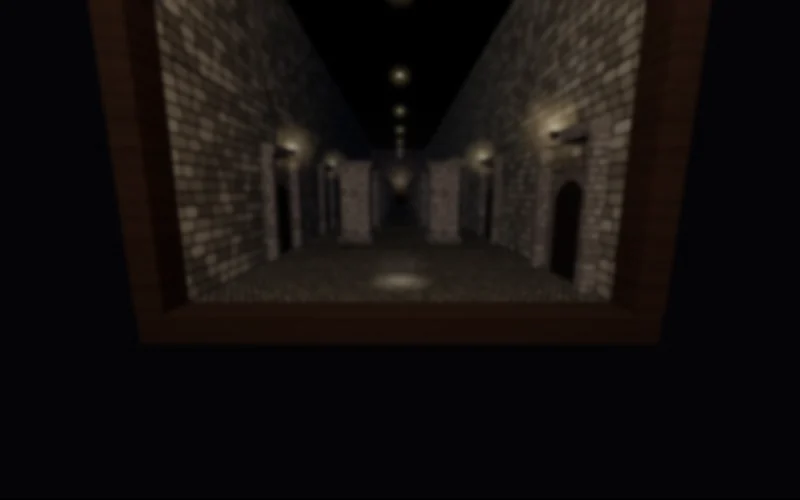
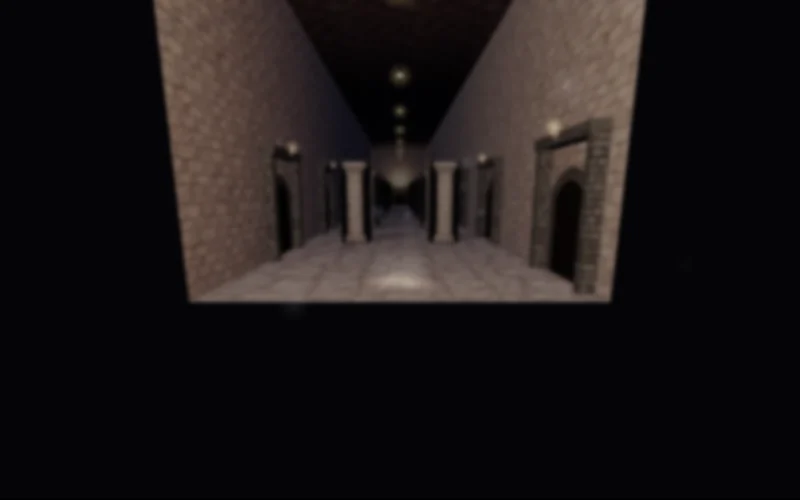
森とダンジョンの元絵・本がひらく流れ・入る演出は真後ろから
- 森の元絵 v01（木・岩・しげみ・古い石の門・土と小道・ダンジョンの壁床天井・灯り・柱）。門は口をくりぬき、奥に中の写し
- 本がひらく：見返しの紙は表紙を越えずなめらかに寝て、寝てから板が起き上がる。閉じた本のまわりに寝た板を出さない
- ページめくり：紙が寝る側に前のページを残す
- 入る演出はカメラ真後ろ、仲間は半歩よける
- オーブを増やし、カメラのそばにも。中の手前の額縁と本棚を外した

diff --git a/src/render/three-stage.js b/src/render/three-stage.js
@@ -98,6 +98,8 @@ let NOOKIN = 'blur';
 const WALK_IN = 3;
 /** ぼかして出るとき：中では手前へ歩くマス数、外では戸口の奥から出てくるマス数（2026-11-23 作者「出るところも演出を」） */
 const WALK_OUT = 2, EMERGE = 1.6;
+/** ぼかして入るとき、仲間が横へよける幅（マス） */
+const ASIDE = 0.8;
 /** 入る瞬間に広げる画角（度） */
 const FOV_BURST = 120;
 /** 切りかわりの前後に重ねる、中の色の濃さ（0〜1） */
@@ -424,6 +426,19 @@ function townYardFloor(g, map, T, W, H, paved) {
 }
 function soilFloor(g, map, T, W, H) { // 森の土：茶色の土に濃淡のしみ、小石、落ち葉。歩ける所は踏み固めた明るい土、歩けない所（木・岩の下）は草とこけ
   const R = rnd(83);
+  const sp = townPattern(g, 'soil', T, 4); // 森の元絵 v01（2026-11-23）：土の絵を全体に、地図の stage.paths（道の折れ線）にそって小道の絵を、ふちをぼかして重ねる
+  if (sp) {
+    g.fillStyle = sp; g.fillRect(0, 0, W, H);
+    const pp = townPattern(g, 'path', T, 4);
+    if (pp && map.stage?.paths?.length) {
+      const road = canvas(W, H, (d) => { d.fillStyle = pp; d.fillRect(0, 0, W, H); });
+      const mask = canvas(W, H, (d) => { d.strokeStyle = '#fff'; d.lineCap = d.lineJoin = 'round'; for (const pl of map.stage.paths) { d.lineWidth = (pl.w ?? 2.6) * T; d.beginPath(); pl.pts.forEach(([x, y], i) => (i ? d.lineTo(x * T, y * T) : d.moveTo(x * T, y * T))); d.stroke(); } });
+      const soft = canvas(W, H, (d) => { d.filter = `blur(${Math.round(T * 0.35)}px)`; d.drawImage(mask, 0, 0); });
+      const rg = road.getContext('2d'); rg.globalCompositeOperation = 'destination-in'; rg.drawImage(soft, 0, 0);
+      g.drawImage(road, 0, 0);
+    }
+    return;
+  }
   g.fillStyle = '#7a5e40'; g.fillRect(0, 0, W, H);
   for (let k = 0; k < (W * H) / 260; k++) { const r = 4 + R() * 14; g.fillStyle = R() < 0.5 ? 'rgba(60,42,26,.16)' : 'rgba(150,118,80,.14)'; g.beginPath(); g.ellipse(R() * W, R() * H, r, r * (0.5 + R() * 0.5), R() * 3, 0, 7); g.fill(); } // 濃淡のしみ
   for (let y = 0; y < map.height; y++) for (let x = 0; x < map.width; x++) {
@@ -499,7 +514,7 @@ function windowGlow(c, file, seed) {
  * 家（house-*・inn-*）は横いっぱいにして、高さは絵の形から（家ごとに屋根の高さが変わる）。
  * 吊るすもの（sign-*・awning-*・herbs）は板の上のほうに、それ以外は地面に立てて、形を変えずに入れる
  */
-const SHOW_H = { tree: 6, 'tree-small': 2.8, stall: 3.2, 'flower-stall': 3.2 };
+const SHOW_H = { tree: 6, 'tree-small': 2.8, stall: 3.2, 'flower-stall': 3.2, pine: 6, 'dungeon-gate': 5.2 }; // pine・dungeon-gate：森の元絵 v01（2026-11-23。木は約6マス、門の口がキャラより高い）
 function townBoardCanvas(name, b, it) {
   const cfg = TOWN_CFG, imgs = TOWN_IMG; if (!cfg || !imgs) return null;
   let file = it.art || cfg.boards?.[name]; // it.art：地図で家の絵を決めているとき
@@ -901,15 +916,17 @@ export function createThreeStage(canvasEl, assets) {
   const hexTex = texOf(hexCanvas()); const orbGroup = new THREE.Group(); scene.add(orbGroup);
   // 光の玉は場所ごとに変える（2026-11-22 作者「オーブは場所によって変えるようにしたい」）：マップの stage.orbs（数・明るさ・色・大きさ）が
   // stage-style.json の orbs を上書きする。玉は ORB_MAX 個まで先に作っておき、マップを読むたびに数と色を合わせる
-  const ORB_MAX = 40;
+  const ORB_MAX = 80, ORB_MORE = 1.3, NEAR_ORBS = 8; // 2026-11-23 作者「オーブの量を増やして」「カメラ付近にも出るように」のあと「オーブ多すぎるかな」：マップの数の1.3倍、カメラの前に8個
   const orbSprites = [];
-  for (let i = 0; i < ORB_MAX; i++) { const s = new THREE.Sprite(new THREE.SpriteMaterial({ map: hexTex, transparent: true, depthWrite: false, blending: THREE.AdditiveBlending, rotation: i * 1.7 })); s.visible = false; orbGroup.add(s); orbSprites.push(s); }
+  for (let i = 0; i < ORB_MAX; i++) { const s = new THREE.Sprite(new THREE.SpriteMaterial({ map: hexTex, transparent: true, depthWrite: false, blending: THREE.AdditiveBlending, rotation: i * 1.7, toneMapped: false, fog: false }) /* 明るい部屋でも消えないように、明るさをおさえる処理（トーンマッピング）ともやを受けない */); s.visible = false; orbGroup.add(s); orbSprites.push(s); }
   let orbCfg = { count: 0, alpha: 0.7, size: 1 };
+  const nearOrbs = []; for (let i = 0; i < NEAR_ORBS; i++) { const s = new THREE.Sprite(new THREE.SpriteMaterial({ map: hexTex, transparent: true, depthWrite: false, blending: THREE.AdditiveBlending, rotation: i * 2.3, toneMapped: false, fog: false })); s.visible = false; orbGroup.add(s); nearOrbs.push(s); }
   const applyOrbs = (m) => {
     const o = { ...(style.orbs || {}), ...(m.stage?.orbs || {}) };
-    orbCfg = { count: Math.max(0, Math.min(ORB_MAX, o.count ?? 0)), alpha: o.alpha ?? 0.7, size: o.size ?? 1 };
+    orbCfg = { count: Math.max(0, Math.min(ORB_MAX, Math.round((o.count ?? 0) * ORB_MORE))), alpha: o.alpha ?? 0.7, size: o.size ?? 1 };
     const c = new THREE.Color(...(o.color || [1, 1, 1]));
     orbSprites.forEach((s, i) => { s.material.color.copy(c); if (i >= orbCfg.count) s.visible = false; });
+    nearOrbs.forEach((s) => { s.material.color.copy(c); s.visible = false; });
   };
 
   // キャラ（なびくドット絵）。読み終わるまで load が待つ
@@ -923,7 +940,7 @@ export function createThreeStage(canvasEl, assets) {
   // マップの手ざわり（stage.textures）：美術・演出室の元絵をそのまま張る（2026-11-22 作者「試しにドット化しないでそのまま張ったらどうなる？」）。?innart=0 で前のコードの絵
   const artCache = {}; let ART2 = null;
   // 内装の手ざわりと切り抜き（v01：床〜扉、v02：木・腰板・麻布・敷物と、切り抜きの灯り・瓶・ジョッキ・樽。2026-11-23 作者「銀鹿亭のテクスチャできたよ」）
-  const INN_KEYS = ['windowArch', 'flowerBox', 'pottery', 'bread', 'guestBook', 'keyRack', 'logBasket', 'floor', 'wall', 'ceiling', 'brick', 'window', 'tabletop', 'counter', 'blanket', 'door', 'wood', 'wainscot', 'linen', 'rug', 'barrels', 'bottles', 'mugs', 'candle', 'lampHanging', 'lampWall', 'flame', 'logs'];
+  const INN_KEYS = ['pillar', 'windowArch', 'flowerBox', 'pottery', 'bread', 'guestBook', 'keyRack', 'logBasket', 'floor', 'wall', 'ceiling', 'brick', 'window', 'tabletop', 'counter', 'blanket', 'door', 'wood', 'wainscot', 'linen', 'rug', 'barrels', 'bottles', 'mugs', 'candle', 'lampHanging', 'lampWall', 'flame', 'logs'];
   // 元絵1枚が覆うマス数（横, 縦）。ドット絵にするときの細かさを決める
   const ART_TILES = { floor: [4, 4], wall: [4, 4], ceiling: [4, 4], brick: [1.5, 1.9], window: [1.3, 1.8], tabletop: [3, 1.8], counter: [7, 1.1], blanket: [2, 1.2], door: [1, 2.1] };
   // 町の絵（2026-11-22 作者「テクスチャができました、ノルンの」）：マップの stage.townArt の絵を読んでおく（地面の模様と板の絵に使う）
@@ -957,7 +974,7 @@ export function createThreeStage(canvasEl, assets) {
     TOWN = out; TOWN_CFG = t; TOWN_IMG = out;
   }
   async function loadArt(m) {
-    TOWN_CFG = null; TOWN_IMG = null; ART2 = null; const t = m.stage?.textures; if (!t || new URLSearchParams(location.search).get('innart') === '0') return;
+    TOWN_CFG = null; TOWN_IMG = null; ART2 = null; CUT_OVR = m.stage?.textures?.cuts || {}; const t = m.stage?.textures; if (!t || new URLSearchParams(location.search).get('innart') === '0') return;
     const out = {};
     for (const k of INN_KEYS) {
       if (!t[k]) continue; const url = (t.base || '') + t[k];
@@ -995,12 +1012,13 @@ export function createThreeStage(canvasEl, assets) {
     // 美術・演出室 v03（2026-11-23 作者「アーチ窓小物組める？」）：絵のある範囲 px と、元の絵の大きさ
     windowArch: [[27, 52, 741, 988], 768, 1024], flowerBox: [[98, 11, 926, 309], 1024, 320], bread: [[18, 88, 494, 371], 512, 384], guestBook: [[18, 121, 494, 371], 512, 384],
     keyRack: [[18, 18, 494, 443], 512, 512], logBasket: [[60, 18, 452, 494], 512, 512] };
+  /** @type {Record<string, any>} マップの stage.textures.cuts（切り抜きの範囲の上書き） */ let CUT_OVR = {};
   const POT_CUPS = [[31, 106, 224, 246], [543, 106, 735, 246]]; // v03 pottery の生成りの杯2つ（皿2枚は正面から見た丸い絵なので、卓には寝かせられず使わない）
   const MUGS = [[37, 113, 158, 243], [242, 114, 361, 243], [446, 113, 568, 243]]; // mugs.png の木のジョッキ2つ・錫のジョッキ1つ（あとの2つは木の皿）
   /** 元絵の一部（b＝[x0,y0,x1,y1] px）だけを使う手ざわり。flip：左右を返す（壁の右側の灯りなど、物の向きだけ。キャラには使わない） */
   const cutT = (k, b, W, H, flip = false) => { const base = ART2?.[k]; if (!base) return null; const t = base.clone(); t.needsUpdate = true; t.wrapS = t.wrapT = THREE.ClampToEdgeWrapping; const rx = (b[2] - b[0] + 1) / W, ry = (b[3] - b[1] + 1) / H; t.repeat.set(flip ? -rx : rx, ry); t.offset.set(flip ? (b[0] / W + rx) : b[0] / W, 1 - (b[3] + 1) / H); t.anisotropy = 8; return t; };
   /** 切り抜きの紙の板（高さ h、幅は絵の縦横比）。まんなかが原点。無ければ null（前のコードの形にもどす） */
-  const cutPlane = (k, h, { b = CUT[k]?.[0], W = CUT[k]?.[1], H = CUT[k]?.[2], flip = false, emissive = 0 } = {}) => {
+  const cutPlane = (k, h, { b = (CUT_OVR[k] ?? CUT[k])?.[0], W = (CUT_OVR[k] ?? CUT[k])?.[1], H = (CUT_OVR[k] ?? CUT[k])?.[2], flip = false, emissive = 0 } = {}) => {
     if (!b) return null; const t = cutT(k, b, W, H, flip); if (!t) return null;
     const w = h * (b[2] - b[0] + 1) / (b[3] - b[1] + 1);
     const mat = new THREE.MeshStandardMaterial({ map: t, transparent: true, alphaTest: 0.35, roughness: 0.8, side: THREE.DoubleSide, ...(emissive ? { emissive: 0xffffff, emissiveMap: t, emissiveIntensity: emissive } : {}) });
@@ -1051,6 +1069,13 @@ export function createThreeStage(canvasEl, assets) {
   // 前のページ（去る最後）と新しいページ（着いた最初）。撮れていないときは、地面だけのページの絵
   const snapRT = [0, 1].map(() => { const t = new THREE.WebGLRenderTarget(16, 16); t.texture.colorSpace = THREE.SRGBColorSpace; return t; });
   let snapPrevOk = false, snapCurOk = false;
+  // めくるあいだ、紙が寝る側（右からめくれば左）には、前のページの写しを残しておく（紙がかぶさるまで。2026-11-23 作者「右のページは前にいたところを残すことができないかな」）
+  const oldHalf = new THREE.Mesh(new THREE.PlaneGeometry(1, 1), new THREE.MeshBasicMaterial({ map: snapRT[0].texture, toneMapped: false })); oldHalf.rotation.x = -Math.PI / 2; oldHalf.visible = false; scene.add(oldHalf);
+  let oldHalfSide = 0;
+  const setOldHalf = (/** @type {number} */ side, /** @type {number} */ BW, /** @type {number} */ BH) => { // side -1＝左半分 / +1＝右半分
+    if (oldHalfSide !== side) { oldHalfSide = side; const uv = oldHalf.geometry.attributes.uv; const u0 = side < 0 ? 0 : 0.5; for (let i = 0; i < uv.count; i++) uv.setX(i, u0 + (i % 2) * 0.5); uv.needsUpdate = true; }
+    oldHalf.scale.set(BW / 2, BH, 1);
+  };
   const snapCam = new THREE.OrthographicCamera(-1, 1, 1, -1, 0.1, 300);
   const snapPage = (/** @type {any} */ rt) => {
     const { BW, BH } = bookSize(map), w = 2048, h = Math.round(2048 * BH / BW);
@@ -1058,7 +1083,7 @@ export function createThreeStage(canvasEl, assets) {
     Object.assign(snapCam, { left: -BW / 2, right: BW / 2, top: BH / 2, bottom: -BH / 2 }); snapCam.updateProjectionMatrix();
     snapCam.position.set(map.width / 2, 120, map.height / 2); snapCam.up.set(0, 0, -1); snapCam.lookAt(map.width / 2, 0, map.height / 2);
     snapCam.layers.enable(1);
-    const hid = [turnMesh, ...riffleSheets.map((f) => f.group), ...flyleaves.map((f) => f.group), ...orbSprites, ...trailDots, doorGlow].filter((o) => o.visible);
+    const hid = [turnMesh, ...riffleSheets.map((f) => f.group), ...flyleaves.map((f) => f.group), ...orbSprites, ...trailDots, doorGlow, oldHalf].filter((o) => o.visible); // 前のページの写し（oldHalf）を写しこまない
     hid.forEach((o) => { o.visible = false; });
     const fog = scene.fog; scene.fog = null;
     renderer.setRenderTarget(rt); renderer.clear(); renderer.render(scene, snapCam); renderer.setRenderTarget(null);
@@ -1286,9 +1311,7 @@ export function createThreeStage(canvasEl, assets) {
     }
     // 手前の木の額縁（本棚の箱のふち）
     const woodT = artT('wood', 1, 1) ?? (PIXROOM ? pixTex(woodCanvas(), 1) : texOf(woodCanvas())), frameM = mat(woodT, WOOD_ROUGH); frameM.color.set(WOOD_TINT);
-    for (const [w, h, x, y] of [[W + F * 2, F, W / 2, HT + F / 2 + 0.03], [W + F * 2, F, W / 2, -F / 2 - 0.03], [F, HT, -F / 2 - 0.03, HT / 2], [F, HT, W + F / 2 + 0.03, HT / 2]]) {
-      const b = new THREE.Mesh(roundBox(w, h, 0.5 * S), frameM); b.position.set(x, y, H + 0.1 * S); root.add(b); // 額縁は床・壁・天井から少し外へずらす（内側の面が床や壁と同じ所で重なり、つなぎ目がちかちかした。2026-11-23 作者「このつなぎめがちかちかする」「この辺もちかちかする」）
-    }
+    // 手前の木の額縁は外した（2026-11-23 作者「ブックヌックの手前の木の棚みたいなやつもなくしていいよ」）
     // 手前の本棚（額縁のまわりの奥の板・左右の本・上下の棚板）は外した（2026-11-23 作者「ブックヌックスタイルやつの手前の本棚消していいよ」：カメラを近づけたので、画面の左右に大きく出ていた）
     // 本棚の前を照らす部屋のやわらかい灯り（入る・出るとき、遠くから本棚が見える）と、箱の中のうすい月明かり
     const room = new THREE.SpotLight(0xffd9a8, 60 * S * S, 40 * S, 0.55, 0.7, 1.6); room.position.set(W / 2 - 2 * S, 9 * S, H + 10 * S); room.target.position.set(W / 2, HT / 2, H); root.add(room, room.target);
@@ -1309,6 +1332,8 @@ export function createThreeStage(canvasEl, assets) {
     const g = new THREE.Group();
     const box = (mats, bw, bh, bd, y, z = -d / 2) => { const m = new THREE.Mesh(roundBox(bw, bh, bd), mats); m.position.set(0, y, z); m.castShadow = true; m.receiveShadow = true; g.add(m); return m; };
     if (name === 'stone-pillar') {
+      const pa = artT('pillar'); // 森の元絵 v01 dungeon_pillar（上下の飾りの石まで描いた柱）。四方に絵を張る
+      if (pa) { pa.wrapS = pa.wrapT = THREE.ClampToEdgeWrapping; const pm = M(pa), top = M(artT('wall', 0.25, 0.25) ?? pa); box([pm, pm, top, top, pm, pm], w * 0.8, h, d * 0.8, h / 2); return g; }
       const side = (s) => M(tile(brickCanvas(60 + s, [118, 120, 126]), s === 0 ? d / 2.2 : w / 2.2, h / 2.2)), cap = M(tile(brickCanvas(70, [96, 98, 104]), 1, 1));
       box([side(0), side(0), cap, cap, side(1), side(1)], w * 0.82, h, d * 0.82, h / 2);
       for (const y of [0.18, h - 0.18]) box(cap, w, 0.36, d, y); // 柱の下と上の、張り出した飾りの石
@@ -1853,9 +1878,11 @@ export function createThreeStage(canvasEl, assets) {
       const kOf = (/** @type {number} */ z, /** @type {boolean} */ isActor) => (riseT === null ? 1 : riseK(riseT, delayOf(z, isActor))) * fold * (wave ? 1 - ez(cl((ep - wave[0] - wave[1] * zfOf(z, isActor)) / wave[2])) : 1);
       // 倒れた板は消さずに、ページに描かれた絵のように平らに残す（外の本のページの上だけ）。板どうし・ページと重ならないよう、手前の板ほど少し上に。
       // 奥へ倒れてページからはみ出す長い板（家）は、倒れるにつれて縮めてページの中に収める
-      const flatLay = (/** @type {any} */ hinge, /** @type {number} */ k, /** @type {number} */ z, /** @type {number} */ h, /** @type {boolean} */ isActor) => {
+      const flatLay = (/** @type {any} */ hinge, /** @type {number} */ k, /** @type {number} */ z, /** @type {number} */ h, /** @type {boolean} */ isActor, x0 = 0) => {
         const f = 1 - Math.min(1, Math.max(0, k)); if (!pages) { hinge.visible = k > 0.01; return; }
-        hinge.visible = true; hinge.position.y += f * (0.03 + 0.05 * zfOf(z, isActor));
+        // 本がひらききるまでは、左半分（表紙といっしょに回るページの所）にかかる板は見せない。閉じた本のまわりに、寝た板や背景が見えていた（2026-11-23 作者「一番最初の本のところ、明かりや屋台が見えてしまっている」）
+        // 本がひらく演出のあいだは、寝た板は見せず、起き上がりはじめたら見せる（2026-11-23 作者「開いてからオブジェクトがあったほうがいいかな」）。ページをめくるときは寝たまま残す
+        hinge.visible = !(intro && f > 0.99); hinge.position.y += f * (0.03 + 0.05 * zfOf(z, isActor));
         const room = Math.max(0.5, z - (H / 2 - bookSize(map).BH / 2) - 0.3), fit = h > room ? room / h : 1; hinge.scale.y = 1 + (fit - 1) * f;
       };
       // 本がひらく
@@ -1865,18 +1892,21 @@ export function createThreeStage(canvasEl, assets) {
       // 見返しの紙：表紙が開くのを少し遅れて追い、しなりながら右ページへ。表（はじめ上）は白い紙、裏は右ページの絵（着いたら右ページと同じ）
       flyleaves.forEach((f, k) => {
         // 紙は自分の時計で進む（表紙がひらき終わってもそのまま寝るまで動き、寝てから消す。2026-11-23 作者「ページがなくなるのが早い、消えている」：表紙がひらき終わった所で消していた）
-        const open = intro && pages ? intro.open : 1, x = intro ? intro.t / INTRO_TIMING.open : 9, q = Math.max(0, Math.min(1, (x - 0.25 - 0.12 * k) / 0.95));
-        const cap = open >= 0.999 ? 1 : (open - 0.08 - 0.05 * k) * 0.78 + 0.3 * Math.max(0, (open - 0.82) / 0.18) ** 2; // 表紙を追いこさない（めくる紙は手前の角が 1/0.78 倍先に進む）
-        const pf = Math.max(0, Math.min(ez(q), cap));
+        // 紙は自分のなめらかな動き（はじめと終わりがゆるやか）で、表紙よりずっとうしろを進み、表紙が寝てから少しして寝る。追いこさず、途中で急にゆっくりにならない
+        // （2026-11-23 作者「まだ追い越しているね」「なんか空中で止まる」「急にゆっくりになるから変」：表紙の動きをなぞると、表紙がゆっくり寝る終わりに紙も急にゆっくりになった）
+        const x = intro ? intro.t / INTRO_TIMING.open : 9, s0 = 0.56 + 0.04 * k, s1 = 1.11 + 0.04 * k; // 動きはじめと寝る時刻（本がひらく長さを1として）。表紙を越えない中でいちばん早く寝る値（2026-11-23 作者「開ききってから飛び出さないと変かな」→「ページを速く」：紙が寝てから板が起きる）
+        const pf = (1 - Math.cos(Math.PI * Math.max(0, Math.min(1, (x - s0) / (s1 - s0))))) / 2;
         f.group.visible = !!(intro && pages) && pf < 0.999;
         if (!f.group.visible) return;
         if (f.A.material.map !== turnTex) setTurnTex(f.A, turnTex);
         if (f.B.material.map !== (curPageTex || turnTex)) setTurnTex(f.B, curPageTex);
-        f.group.position.set(W / 2, 0.04 + 0.012 * (flyleaves.length - k), H / 2); bendSheet(f, pf, BW / 2, BH, 1); // 表紙を追って右から左へ。表紙を追いこさない（2026-11-23 作者「表紙よりも先にページがめくれている」：なめらかに速くなる動きで、途中で表紙を追いこしていた）
+        f.group.position.set(W / 2, 0.12 + 0.012 * (flyleaves.length - k), H / 2); /* 寝た板（高さ0.08まで）より上に */
+        bendSheet(f, pf, BW / 2, BH, 1); // 表紙を追って右から左へ。表紙を追いこさない（2026-11-23 作者「表紙よりも先にページがめくれている」：なめらかに速くなる動きで、途中で表紙を追いこしていた）
       });
       // めくれるページ（右から左へ。先のほうが遅れて、紙がしなる）
       const turning = efk === 'page:arrive' && !!pages && ep > 0.01 && ep < 0.56;
       turnMesh.visible = turning;
+      { const sg = ef && ef.dir === 'left' ? -1 : 1, keep = efk === 'page:arrive' && !!pages && snapPrevOk && ep < 0.56; oldHalf.visible = keep; if (keep) { setOldHalf(-sg, BW, BH); oldHalf.position.set(W / 2 - sg * BW / 4, 0.11, H / 2); } }
       // 何枚もめくる：1枚目の表は前のページ、最後の1枚の裏は新しいページ、あいだは白い紙
       riffleSheets.forEach((f, k) => {
         const q = riffle && (diveA || emA) && pages ? cl((ep - k * RIFFLE.gap) / RIFFLE.dur) : 0;
@@ -1890,7 +1920,7 @@ export function createThreeStage(canvasEl, assets) {
         const ta = snapPrevOk ? snapRT[0].texture : prevPageTex, tb = snapCurOk ? snapRT[1].texture : curPageTex;
         if (turnA.material.map !== (ta || turnTex)) setTurnTex(turnA, ta); // 表＝前のページ（倒れた板ごと）
         if (turnB.material.map !== (tb || turnTex)) setTurnTex(turnB, tb); // 裏＝新しいページ（倒れた板ごと）
-        turnMesh.position.set(W / 2, 0.05, H / 2); bendSheet(sheet, ez(ep / 0.54), BW / 2, BH, ef && ef.dir === 'left' ? -1 : 1); // 左へ出たら左からめくる
+        turnMesh.position.set(W / 2, 0.14, H / 2); bendSheet(sheet, ez(ep / 0.54), BW / 2, BH, ef && ef.dir === 'left' ? -1 : 1); // 左へ出たら左からめくる。寝た板（高さ0.08まで）より上に
       }
       // 板：起き上がる（少し行きすぎて戻る）。手前の板は、主人公が近いと薄くなる
       const lead = view.actors[0];
@@ -1908,7 +1938,7 @@ export function createThreeStage(canvasEl, assets) {
           }
           hp.y = b.y0 + dy; hp.z = b.z0 + dz;
         }
-        if (keepBack || deep === 'layers') { b.hinge.visible = true; b.hinge.scale.y = 1; } else flatLay(b.hinge, k, b.z, b.h || 1, false);
+        if (keepBack || deep === 'layers') { b.hinge.visible = true; b.hinge.scale.y = 1; } else flatLay(b.hinge, k, b.z, b.h || 1, false, b.x0 ?? b.x ?? 0);
         if (b.enc && (view.defeated || []).includes(b.enc)) { b.hinge.visible = false; continue; } // 倒した見えている敵は消す
         let alpha = 1;
         // 外では、主人公より手前にあって主人公と重なる板（家・露店など）を透かす（2026-11-22 ノルンを広げたら、手前の家が主人公を隠した）
@@ -1943,8 +1973,12 @@ export function createThreeStage(canvasEl, assets) {
         // 入るとき：キャラは入口の奥へ歩いて、入口の板の向こうに消える（カメラがキャラの絵に寄りすぎない）
         const inward = efk === 'nook-in:leave' && NOOKIN === 'blur' ? WALK_IN * cl((ep - 0.15) / 0.65) /* 主人公たちも戸口の奥へ歩く（作者「主人公も奥へ進む」）。2マス奥＝中に着いたときの立ち位置と同じ */ : efk === 'nook-in:leave' ? (NOOKIN === 'walk' && !(ef?.at && ef.at.x === 0 && ef.at.y > 0) ? ep * 3.2 : ez(ep / 0.45) * 1.8) : 0, sideDoor = ef?.at && ef.at.x === 0 && ef.at.y > 0; // 左の壁の扉では左へ歩いて消える
         am.hinge.position.set(snapDot(a.x + 0.5) - (sideDoor ? inward : 0), 0.02 + heightLerp(map, a.x, a.y) * HU, snapDot(a.y + 0.62) - (sideDoor ? 0 : inward) + outward + emDir.z * emerge); am.hinge.position.x += emDir.x * emerge;
+        if (a !== view.actors[0] && NOOKIN === 'blur' && (efk === 'nook-in:leave' || efk === 'nook-in:arrive')) { // 仲間は主人公の後ろから半歩よける（カメラが真後ろから主人公を見られるように）
+          const st = efk === 'nook-in:leave' ? ASIDE * ez(cl(ep / 0.3)) : ASIDE * (1 - ez(cl((ep - 0.25) / 0.45)));
+          if (efk === 'nook-in:leave' && sideDoor) am.hinge.position.z -= st; else am.hinge.position.x -= st; // 奥へ進む向きの左へ（左の壁の扉では、奥＝左なので手前の反対へ）
+        }
         if (emerge < 0 && outDoor && !interior && holeRecess?.sill) am.hinge.position.y += holeRecess.sill * cl((outDoor.y + 0.3 - am.hinge.position.z) / 0.5); // 戸口の中（敷居の高さ）から通りへ下りる
-        flatLay(am.hinge, k, a.y + 0.5, CHIBI_H, true);
+        flatLay(am.hinge, k, a.y + 0.5, CHIBI_H, true, a.x);
         if (inward > 0 && NOOKIN === 'blur' && ef?.at && holeRecess?.sill) am.hinge.position.y += holeRecess.sill * cl((ef.at.y + 0.3 - am.hinge.position.z) / 0.5); // 戸口をくぐったら敷居の高さへ // ドット1つ分の刻みにそろえる。高さのあるマス（階段・2階の通路）では持ち上げる
         if (am.sheet) { // 4方向のシート：向きの行・歩きのコマを選ぶ（左右は別の行。反転しない）
           const walkIn = (inward > 0 && inward < WALK_IN && NOOKIN === 'blur') || (outward > 0 && outward < WALK_OUT) || emerge < 0, fdir = inward > 0 ? (sideDoor ? 'left' : 'up') : outward > 0 ? 'down' : emerge < 0 ? (emDir.x > 0 ? 'right' : emDir.x < 0 ? 'left' : emDir.z < 0 ? 'up' : 'down') : a.dir /* 出入りで歩くあいだは、みんな歩く向きを向く */, s = a.motion === 'walk' || walkIn ? am.sheet.walk : am.sheet.idle, f = sheetFrame(s.e, fdir, walkIn ? now * 1000 : a.animMs), img = s.t.image;
@@ -1982,7 +2016,7 @@ export function createThreeStage(canvasEl, assets) {
         let on = 1;
         if (efk === 'nook-in:arrive' && NOOKIN !== 'walk' && NOOKIN !== 'blur') { const t0 = 0.1 + 0.5 * (1 - cl((l.z ?? 0) / H)); on = cl((ep - t0) / 0.14); if (on > 0 && on < 1) on *= 0.6 + 0.4 * Math.abs(Math.sin(now * 40 + l.ph)); }
         const flick = l.fire ? 0.82 + 0.18 * Math.sin(now * 11.3 + l.ph) * Math.sin(now * 6.7) + 0.08 * Math.sin(now * 23) : 1 + Math.sin(now * 7 + l.ph) * 0.04; // 火はよくゆらめく
-        if (l.hinge && !l.hinge.visible) on = 0; // 板が倒れている間は消す（灯りの数は変えない）
+        if (l.hinge && (!l.hinge.visible || 1 + l.hinge.rotation.x / (Math.PI / 2) < 0.6)) on = 0; // 板が倒れている間は消す（灯りの数は変えない）。倒れた板はページに残して見せるので、向きで決める（2026-11-23 作者「一番最初の本のところ、明かりが見えてしまっている」）
         if (l.street) { // 街灯：板が立ちきってから、順番が来たら灯る。ぽっと明るくなって一度ちらつき、落ちつく。倒れたら消えて、次に立ったらまた灯る
           const lp = l.street;
           if (!l.hinge.visible || 1 + l.hinge.rotation.x / (Math.PI / 2) < 0.98) lp.litAt = null; // 板が立ちきっていない
@@ -2049,7 +2083,7 @@ export function createThreeStage(canvasEl, assets) {
         const rear = new THREE.Vector3(rearA.x + 0.5, heightLerp(map, rearA.x, rearA.y) * HU, rearA.y + 0.62).addScaledVector(dv, walkNow), leadHead = new THREE.Vector3(lead.x + 0.5, gyL + 1.55, lead.y + 0.62).addScaledVector(dv, walkNow);
         if (ef.at && holeRecess?.sill) { const up = (/** @type {any} */ v) => { v.y += holeRecess.sill * cl((ef.at.y + 0.3 - v.z) / 0.5); }; up(rear); up(leadHead); } // 戸口をくぐったら敷居の高さ（カメラもいっしょに上がる）
         const near = cl((ep - 0.55) / 0.45), gap = 2.2 + (1.0 - 2.2) * near; // 画角を広げるのと同時に、ぐっと近づく（2026-11-23 作者「同時に距離も近づけて」）
-        const z1 = ez(cl(ep / 0.35)); eye.lerp(rear.clone().addScaledVector(pv, 0.8 + 0.5 * near).addScaledVector(dv, -gap).add(new THREE.Vector3(0, 1.95, 0)), z1); /* 近づくほど横へ：主人公が後ろの仲間に隠れないように。高さは頭の少し上＝見下ろす角度は低いまま（2026-11-23 作者「見下ろし角度はもっと低いまま」） */ look.lerp(leadHead, z1);
+        const z1 = ez(cl(ep / 0.35)); eye.lerp(rear.clone().addScaledVector(dv, -gap) /* 真後ろ（2026-11-23 作者「真後ろ」「ヴォルトがよける」：仲間は横へよけるので、主人公が隠れない） */.add(new THREE.Vector3(0, 1.95, 0)), z1); /* 近づくほど横へ：主人公が後ろの仲間に隠れないように。高さは頭の少し上＝見下ろす角度は低いまま（2026-11-23 作者「見下ろし角度はもっと低いまま」） */ look.lerp(leadHead, z1);
         if (ef.at) {
           const ax = ef.at.x + 0.5, az = ef.at.y;
           camera.fov += (FOV_BURST - camera.fov) * cl((ep - 0.55) / 0.45); // 入る瞬間に画角を目いっぱい広げる（2026-11-23 作者「入る瞬間に画角を目いっぱい広げて」）。中はこの画角から、ふつうの画角へ戻る（carry.fov）
@@ -2154,6 +2188,7 @@ export function createThreeStage(canvasEl, assets) {
         if (leaveP && ep > 0.96) { snapPage(snapRT[0]); snapPrevOk = true; snapCurOk = false; }
         else if (arriveP && !snapCurOk && (riseT === null || riseT <= RS)) { snapPage(snapRT[1]); snapCurOk = true; }
         else if (!ef) { snapPrevOk = false; snapCurOk = false; }
+
       }
       camera.position.copy(eye); camera.lookAt(look);
       if (capturePose) { camera.position.fromArray(capturePose.p); camera.quaternion.fromArray(capturePose.q); camera.fov = capturePose.fov; } // 撮影の道具（tools/capture-peek.html）が決めたカメラ
@@ -2174,7 +2209,21 @@ export function createThreeStage(canvasEl, assets) {
       orbsShown = 0;
       const orbMul = efk === 'nook-in:arrive' ? cl((ep - 0.7) / 0.3) : 1;
       const ps = orbPositions(orbCfg.count, sec, { w: W, h: H });
-      orbSprites.forEach((s, i) => { const p = ps[i]; if (!p) { s.visible = false; return; } s.visible = p.alpha * orbMul > 0.01; if (!s.visible) return; s.position.set(p.x, p.y * 1.4, p.z); const sz = p.size * 2.0 * orbCfg.size; s.scale.set(sz, sz, 1); s.material.opacity = Math.min(1, p.alpha * orbMul * orbCfg.alpha * 0.9); orbsShown++; }); // 2026-11-23 作者「オーブについてもう少し存在感あってもいい」：大きさ1.25倍・濃さ1.5倍
+      orbSprites.forEach((s, i) => { const p = ps[i]; if (!p) { s.visible = false; return; } s.visible = p.alpha * orbMul > 0.01; if (!s.visible) return; s.position.set(p.x, p.y * 1.4, p.z); const sz = p.size * 2.0 * orbCfg.size; s.scale.set(sz, sz, 1); s.material.opacity = Math.min(1, p.alpha * orbMul * orbCfg.alpha * 1.45); /* 2026-11-23 作者「オーブの量を増やして」：濃さも1.6倍 */ orbsShown++; }); // 2026-11-23 作者「オーブについてもう少し存在感あってもいい」：大きさ1.25倍・濃さ1.5倍
+      { // カメラのそばのオーブ：カメラの前（横10・奥7マスの箱）にただよう。箱は世界に止まっていて、カメラが動くと、はしで折り返して反対側から出る（はしでは薄く）
+        const fw = camera.getWorldDirection(new THREE.Vector3()); fw.y = 0; if (fw.lengthSq() < 1e-6) fw.set(0, 0, -1); fw.normalize();
+        const c = camera.position.clone().addScaledVector(fw, 3.5), BX = 10, BZ = 7, gy = camera.position.y - 2.2;
+        const show = orbCfg.count > 0 && (zoom >= 1 || !pages) ? orbMul * (intro ? cl((intro.zoom ?? 1) * 1.2 - 0.2) : 1) : 0;
+        const np = orbPositions(NEAR_ORBS, sec * 0.9 + 37, { w: BX, h: BZ });
+        nearOrbs.forEach((s, i) => {
+          const p = np[i]; if (!p || show <= 0.01) { s.visible = false; return; }
+          const wrap = (/** @type {number} */ v, /** @type {number} */ lo, /** @type {number} */ L) => lo + ((((v - lo) % L) + L) % L);
+          const x = wrap(p.x + i * 3.1, c.x - BX / 2, BX), z = wrap(p.z + i * 1.7, c.z - BZ / 2, BZ);
+          const edge = Math.min(1, (x - (c.x - BX / 2)) / 1.2, (c.x + BX / 2 - x) / 1.2, (z - (c.z - BZ / 2)) / 1.2, (c.z + BZ / 2 - z) / 1.2);
+          const a = (0.35 + p.alpha) * show * orbCfg.alpha * Math.max(0, edge); s.visible = a > 0.01; if (!s.visible) return; /* そばのオーブは見えるように、少し濃く大きく */
+          s.position.set(x, gy + p.y * 1.3, z); const sz = p.size * 2.4 * orbCfg.size; s.scale.set(sz, sz, 1); s.material.opacity = Math.min(1, a);
+        });
+      }
       { // キャラの絵は、いつもカメラと平行に向ける（2026-11-23 作者「左の側面の部屋に入るとき、キャラクターがそのままだから、つねに、カメラと平行にしておいてほしい」）。回すだけで左右は返さない
         const f = camera.getWorldDirection(new THREE.Vector3()), yaw = Math.atan2(-f.x, -f.z);
         for (const id of Object.keys(actors)) { const h = actors[id].hinge; h.rotation.order = 'YXZ'; h.rotation.y = yaw; } // YXZ：起き上がり（x）のあとで向きを回す

diff --git a/src/render/book-intro.js b/src/render/book-intro.js
@@ -8,13 +8,13 @@
 /** 時間割（秒）。参照試作の尺を元にした仮の値。歩行へ自然に移ることを優先し、方向の入力でいつでも終わる。 */
 export const INTRO_TIMING = Object.freeze({
   open: 2.2,        // 本がひらく（2026-11-23 作者「本が開く演出はやすぎるかも」で 0.9→2.2。全体も 2.8→4.4）
-  riseStart: 2.2,   // 板が起き上がりはじめる（本がひらき終わってから）
+  riseStart: 2.6,   // 板が起き上がりはじめる（本がひらき、見返しの紙も寝てから。2026-11-23 作者「開ききってから飛び出さないと変かな」で 2.2→2.6）
   riseSpread: 0.6,  // 奥の板から手前の板までの時間差
   riseDur: 0.55,    // 1枚が起き上がる長さ
   actorsAfter: 0.15,// キャラの板は、いちばん手前の板より少しあと
-  zoomStart: 2.6,   // カメラが主人公へ寄りはじめる
+  zoomStart: 3.0,   // カメラが主人公へ寄りはじめる（板が立ちはじめたころ）
   zoomDur: 1.8,     // 寄る長さ
-  end: 4.4,         // 終わり（ここで歩けるようになる）
+  end: 4.8,         // 終わり（ここで歩けるようになる）
   skipGraceMs: 220, // 方向の入力でとばしたあと、この間は歩かない（短く押しただけなら1歩も進まない。押しつづければ歩く）
   // rev4：表紙の「タップしてはじめる」（プロデュース室の判断 2026-11-22 14:23）
   startWaitMs: 800, // 開始の一押しのあと、音が有効になる／効果音を読み終えるのを待つ上限。過ぎたら無音のまま本がひらく（待ち続けない）
